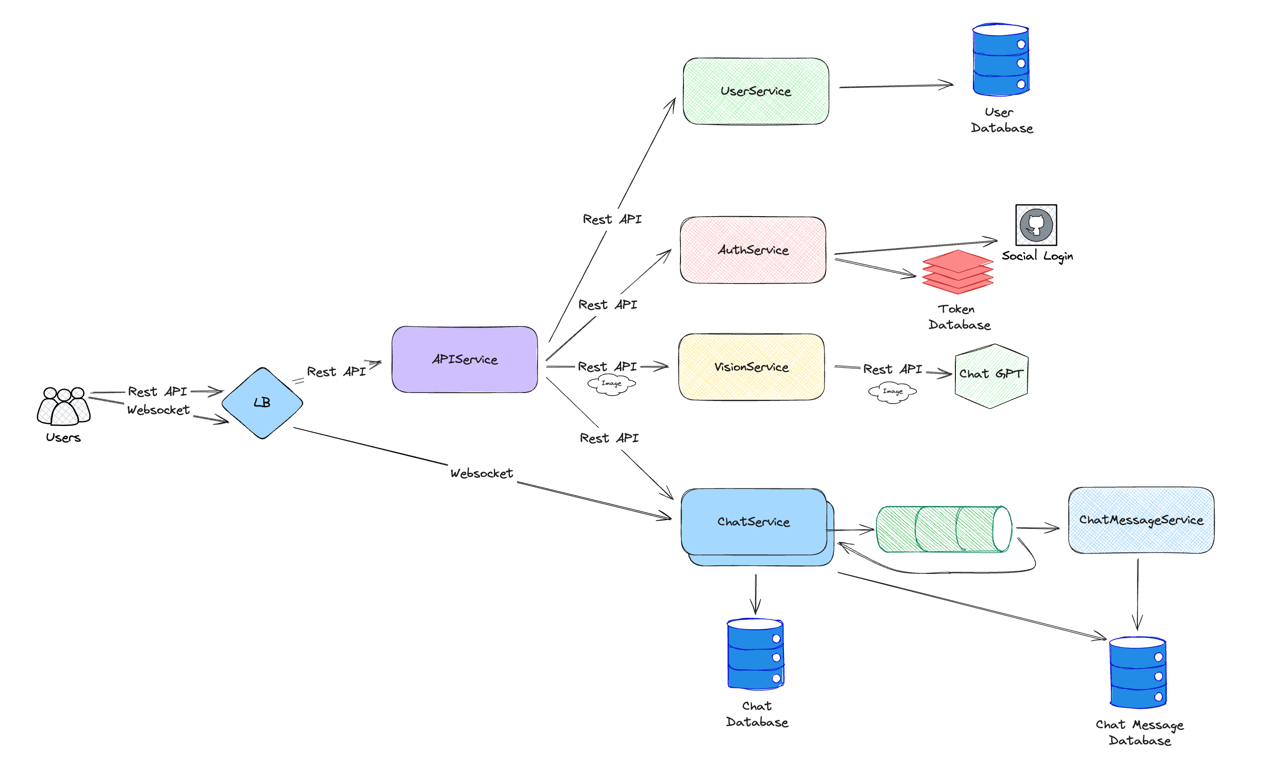
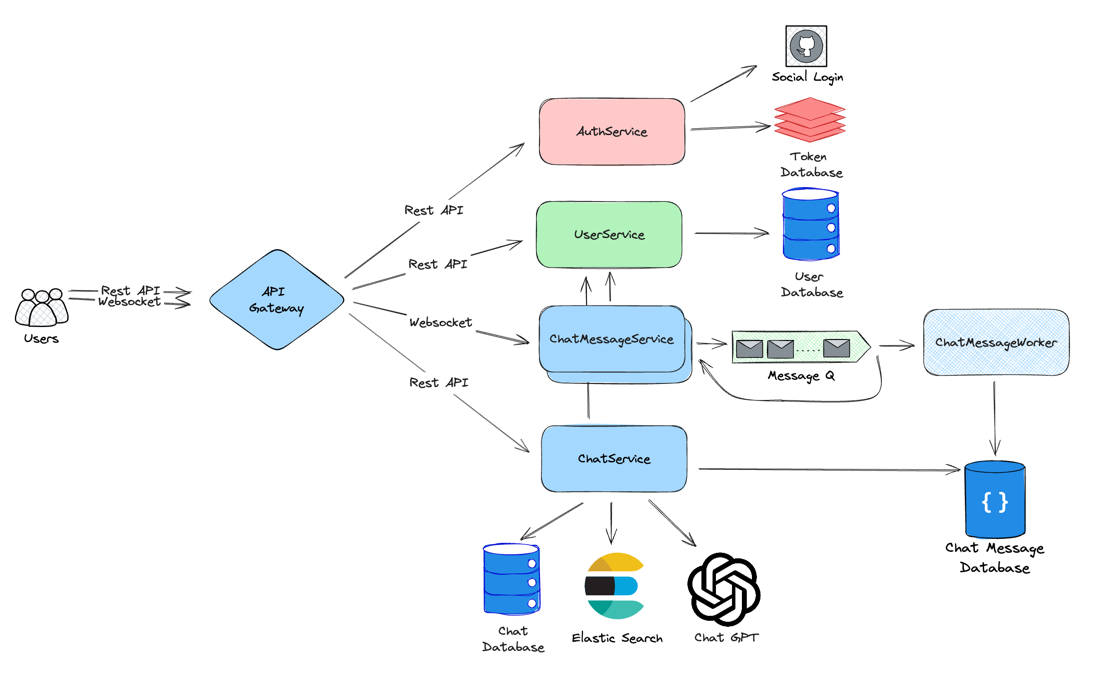
:memo: 아키텍처 이미지 수정

diff --git a/README.md b/README.md
@@ -1,0 +1,4 @@
+# Glucose Backend
+
+## System Architecture
+![img.png](./docs/image/Service%20Architecture.png)
